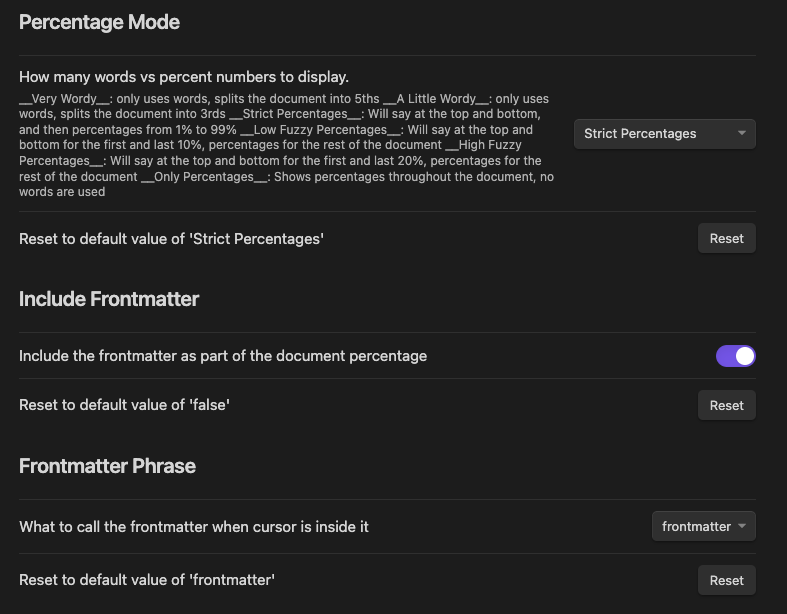
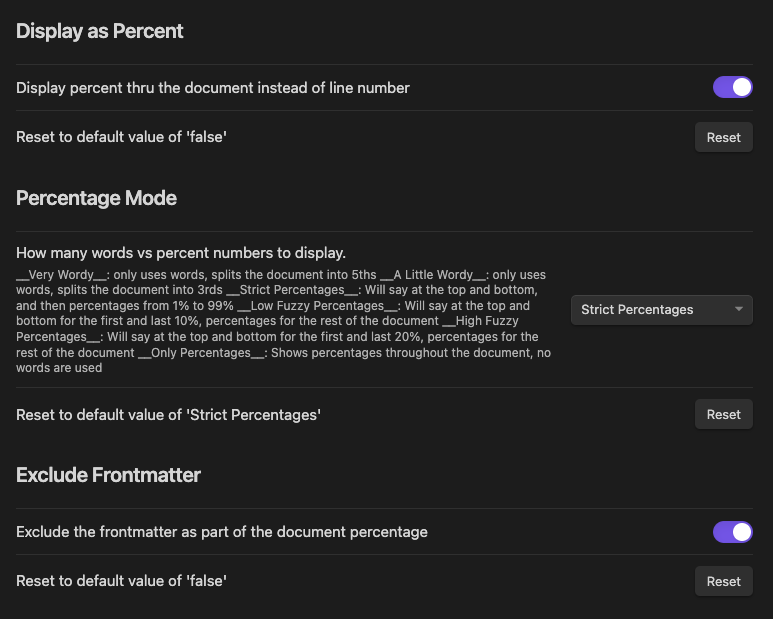
Swap frontmatter setting to exclude

diff --git a/src/settings.ts b/src/settings.ts
@@ -34,9 +34,9 @@ export class CursorLocationSettingTab extends PluginSettingTab {
     DisplayCursorLines.children.push(CursorLinePattern);
 
     const FuzzyAmount = new e.FuzzyAmount(containerEl, this.plugin);
-    const IncludeFrontmatter = new e.IncludeFrontmatter(containerEl, this.plugin);
+    const ExcludeFrontmatter = new e.ExcludeFrontmatter(containerEl, this.plugin);
     const FrontmatterString = new e.FrontmatterString(containerEl, this.plugin);
-    IncludeFrontmatter.children.push(FrontmatterString);
+    ExcludeFrontmatter.children.push(FrontmatterString);
 
     const StatusBarPadding = new e.StatusBarPadding(containerEl, this.plugin);
     const PaddingStep = new e.PaddingStep(containerEl, this.plugin);
@@ -46,11 +46,11 @@ export class CursorLocationSettingTab extends PluginSettingTab {
     const DisplayTotalLineCount = new e.DisplayTotalLineCount(containerEl, this.plugin);
 
     WordyDisplay.percents.push(FuzzyAmount);
-    WordyDisplay.percents.push(IncludeFrontmatter);
+    WordyDisplay.percents.push(ExcludeFrontmatter);
     WordyDisplay.rowcol.push(DisplayPattern);
     WordyDisplay.rowcol.push(DisplayCursorLines);
 
-    IncludeFrontmatter.toggleChildren();
+    ExcludeFrontmatter.toggleChildren();
     NumberCursors.toggleChildren();
     SelectionMode.toggleChildren();
     DisplayCursorLines.toggleChildren();
@@ -71,7 +71,7 @@ export class CursorLocationSettingTab extends PluginSettingTab {
       PaddingStep,
       WordyDisplay,
       FuzzyAmount,
-      IncludeFrontmatter,
+      ExcludeFrontmatter,
       FrontmatterString,
     ];
 

diff --git a/src/elements.ts b/src/elements.ts
@@ -648,18 +648,18 @@ export class FuzzyAmount extends SettingElement {
 }
 
 
-export class IncludeFrontmatter extends SettingElement {
+export class ExcludeFrontmatter extends SettingElement {
   constructor(container: HTMLElement, plugin: CursorLocation) {
-    super(container, "Include Frontmatter", plugin, "includeFrontmatter")
+    super(container, "Exclude Frontmatter", plugin, "excludeFrontmatter")
 
     this.setting = new Setting(this.element)
-      .setName("Include the frontmatter as part of the document percentage")
+      .setName("Exclude the frontmatter as part of the document percentage")
       .addToggle((cb) => {
         cb
           .setValue(
-            this.plugin.settings.includeFrontmatter != null
-              ? this.plugin.settings.includeFrontmatter
-              : DEFAULT_SETTINGS.includeFrontmatter
+            this.plugin.settings.excludeFrontmatter != null
+              ? this.plugin.settings.excludeFrontmatter
+              : DEFAULT_SETTINGS.excludeFrontmatter
           )
           .onChange(this.onChange())
       });
@@ -674,13 +674,13 @@ export class IncludeFrontmatter extends SettingElement {
   }
 
   public showChildren() {
-    if (this.plugin.settings.includeFrontmatter) {
+    if (this.plugin.settings.excludeFrontmatter) {
       super.showChildren();
     }
   }
 
   public toggleChildren() {
-    const display = this.plugin.settings.includeFrontmatter;
+    const display = this.plugin.settings.excludeFrontmatter;
     display ? super.showChildren() : super.hideChildren();
   }
 }

diff --git a/src/constants.ts b/src/constants.ts
@@ -19,7 +19,7 @@ export interface CursorLocationSettings {
   paddingStep: number;
   wordyDisplay: boolean;
   fuzzyAmount: string;
-  includeFrontmatter: boolean;
+  excludeFrontmatter: boolean;
   frontmatterString: string;
   frontmatterStringCustom: string;
 }
@@ -44,7 +44,7 @@ export const DEFAULT_SETTINGS: CursorLocationSettings = {
   paddingStep: 9,
   wordyDisplay: false,
   fuzzyAmount: "strictpercent",
-  includeFrontmatter: false,
+  excludeFrontmatter: false,
   frontmatterString: "frontmatter",
   frontmatterStringCustom: "",
 };

diff --git a/src/plugin.ts b/src/plugin.ts
@@ -9,7 +9,7 @@ import * as c from "src/constants";
 
 
 function frontmatter(doc: Text, settings: CursorLocationSettings): number {
-  if (!settings.wordyDisplay || settings.includeFrontmatter) return null;
+  if (!settings.wordyDisplay || !settings.excludeFrontmatter) return null;
   const result: RegExpMatchArray = doc.toString().match(c.FRONTMATTER);
   return result ? doc.lineAt(result[0].length).number : null;
 }
